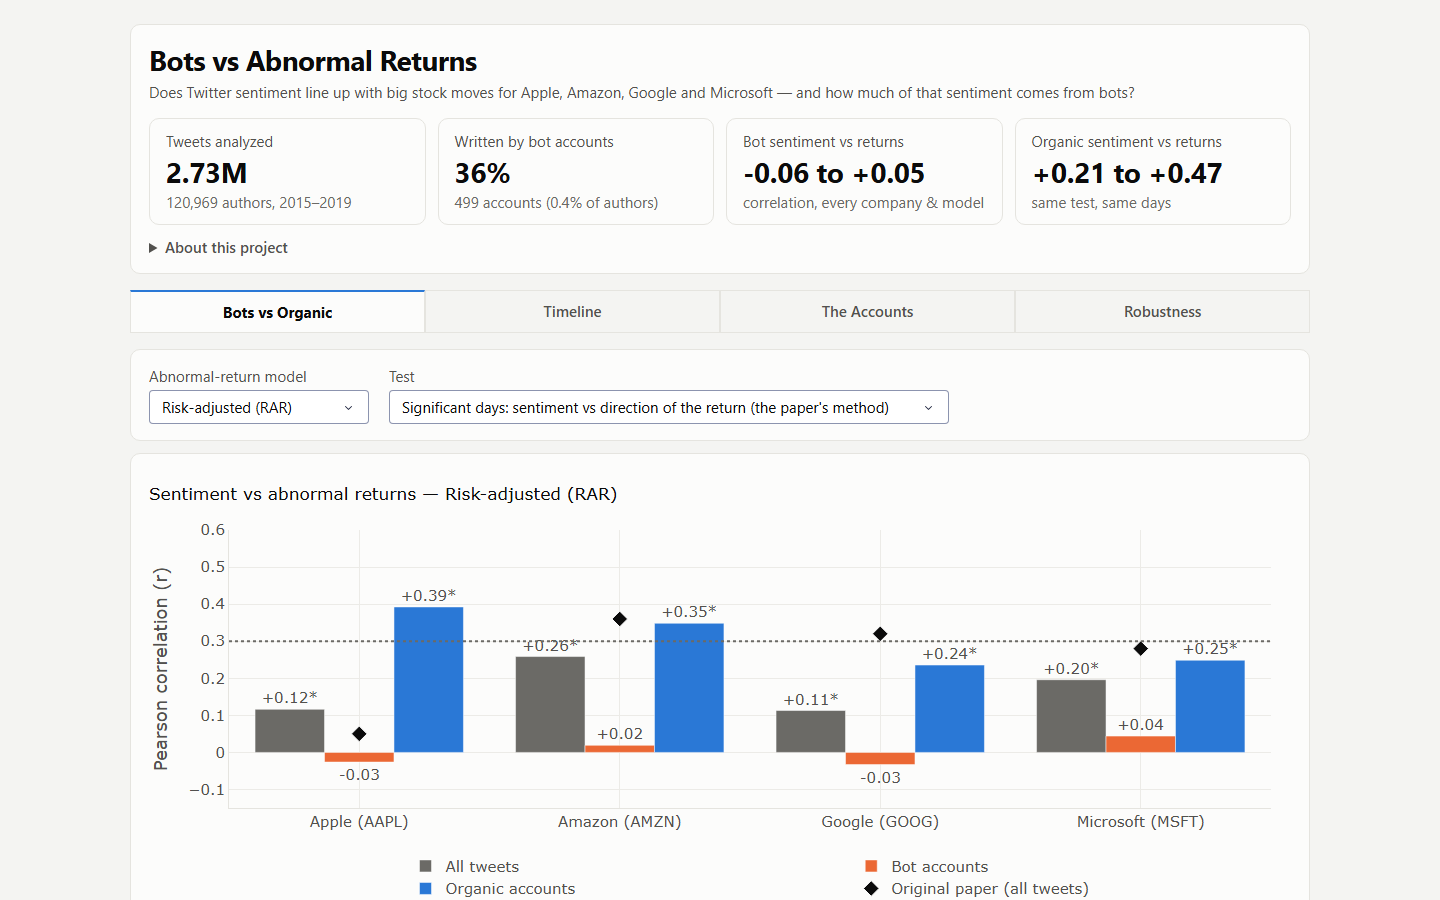
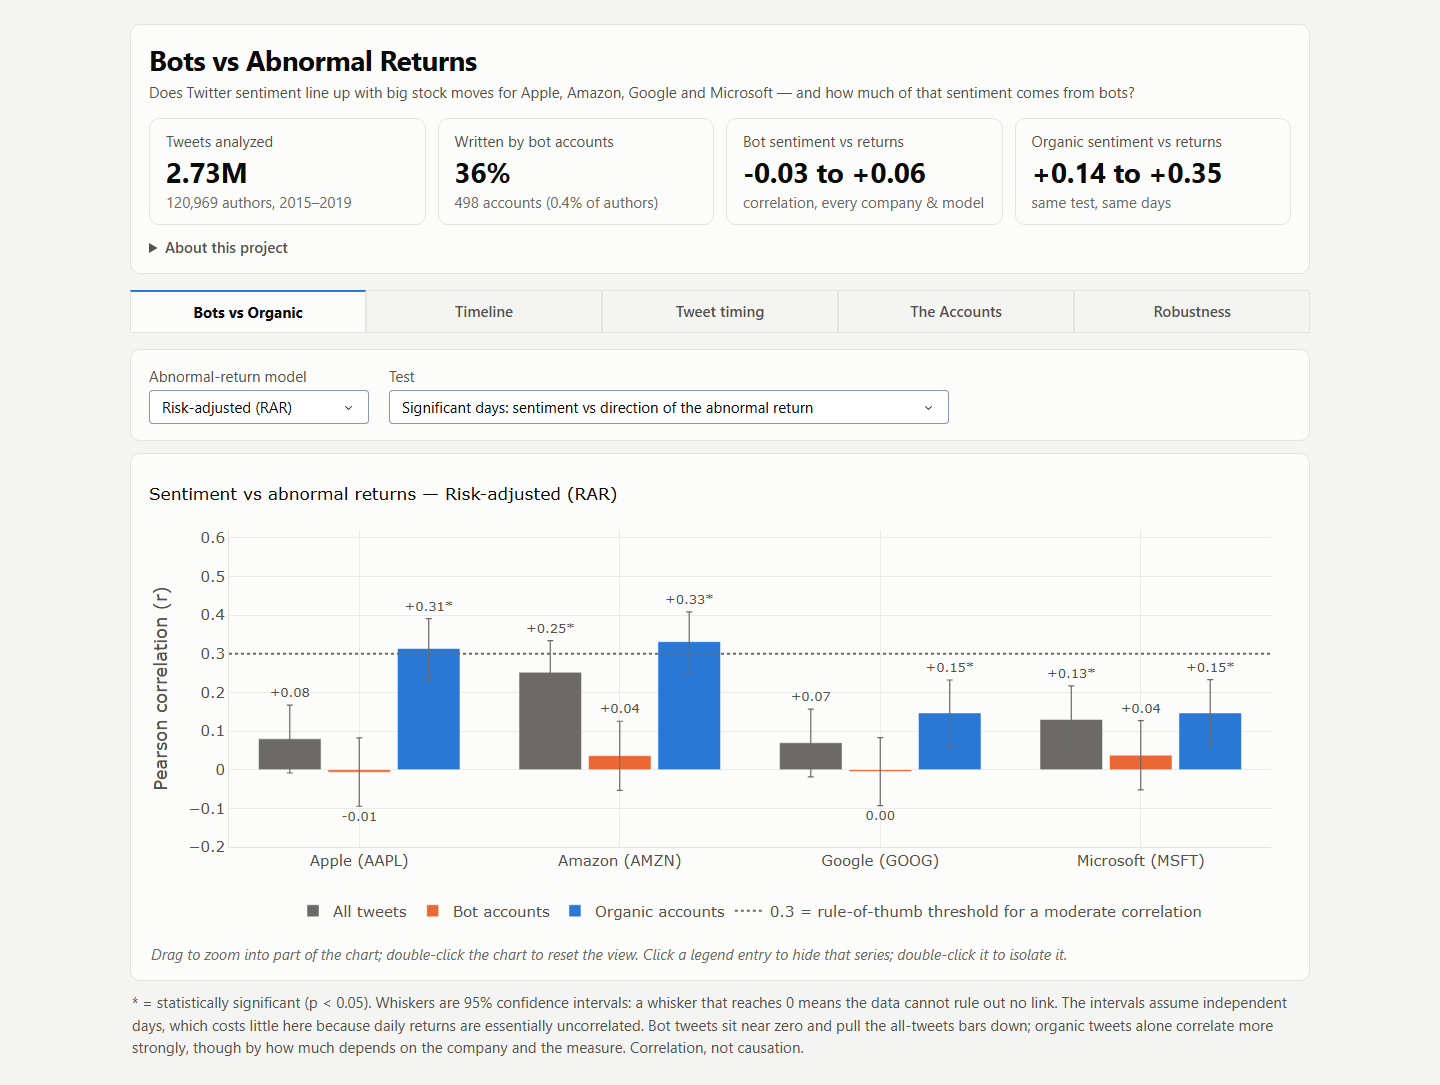
Retake the dashboard screenshot and link it from the README again
The old image showed the earlier numbers and a cropped legend. The new one (1440x1085) is the
current Bots vs Organic tab with the whiskers, the full legend and the hint line; its figures
match the README table.

diff --git a/README.md b/README.md
@@ -1,5 +1,7 @@
 # Bots vs Abnormal Returns
 
+![Bots vs Abnormal Returns dashboard](docs/screenshot.png)
+
 This project extends my graduate paper (MIS 581, Colorado State University Global, 2022), which tested whether Twitter sentiment lines up with abnormal stock returns for Apple, Amazon, Google and Microsoft. I couldn't separate real users from bots in that paper, and I named doing so as the next step. This project flags accounts that behave like bots and compares their sentiment, and that of the remaining accounts, against the same returns.
 
 **Live dashboard:** https://bots-vs-abnormal-returns.onrender.com/ (Render free tier, so the first visit after idle takes about 30 seconds to wake). To run it locally: `python app.py`, then http://localhost:8060.
